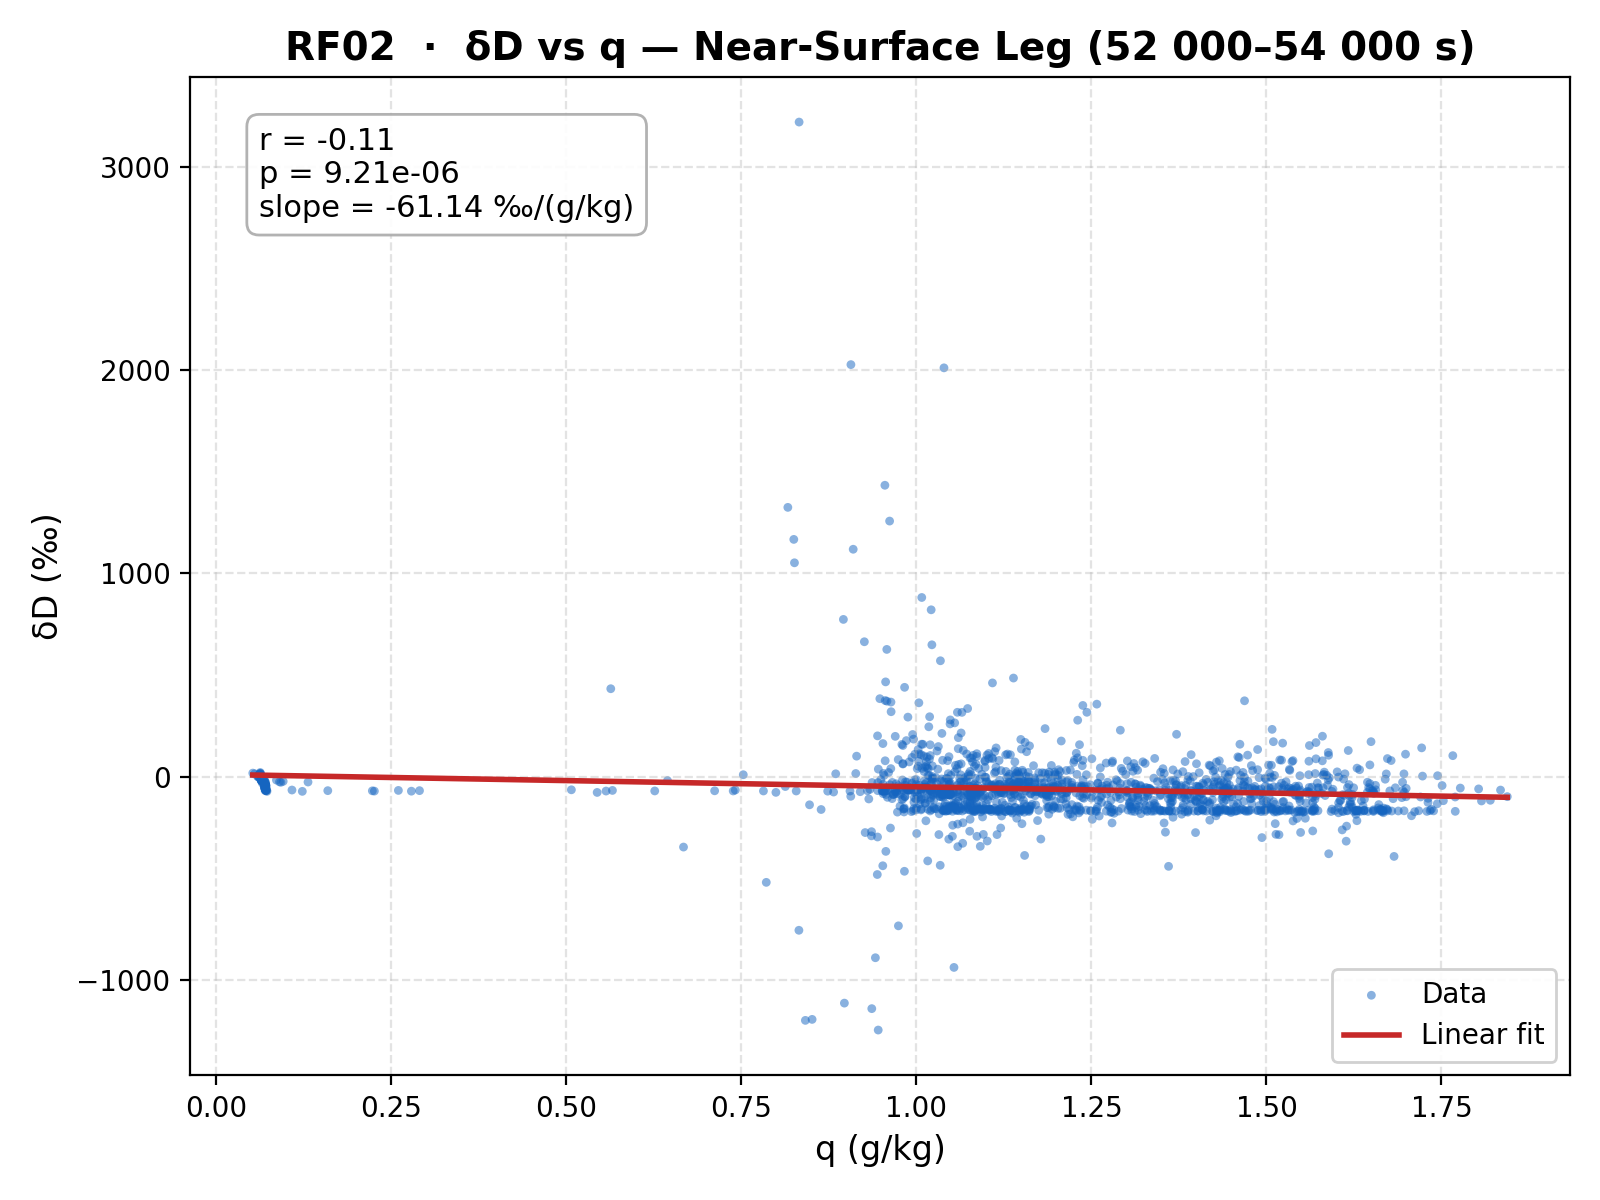
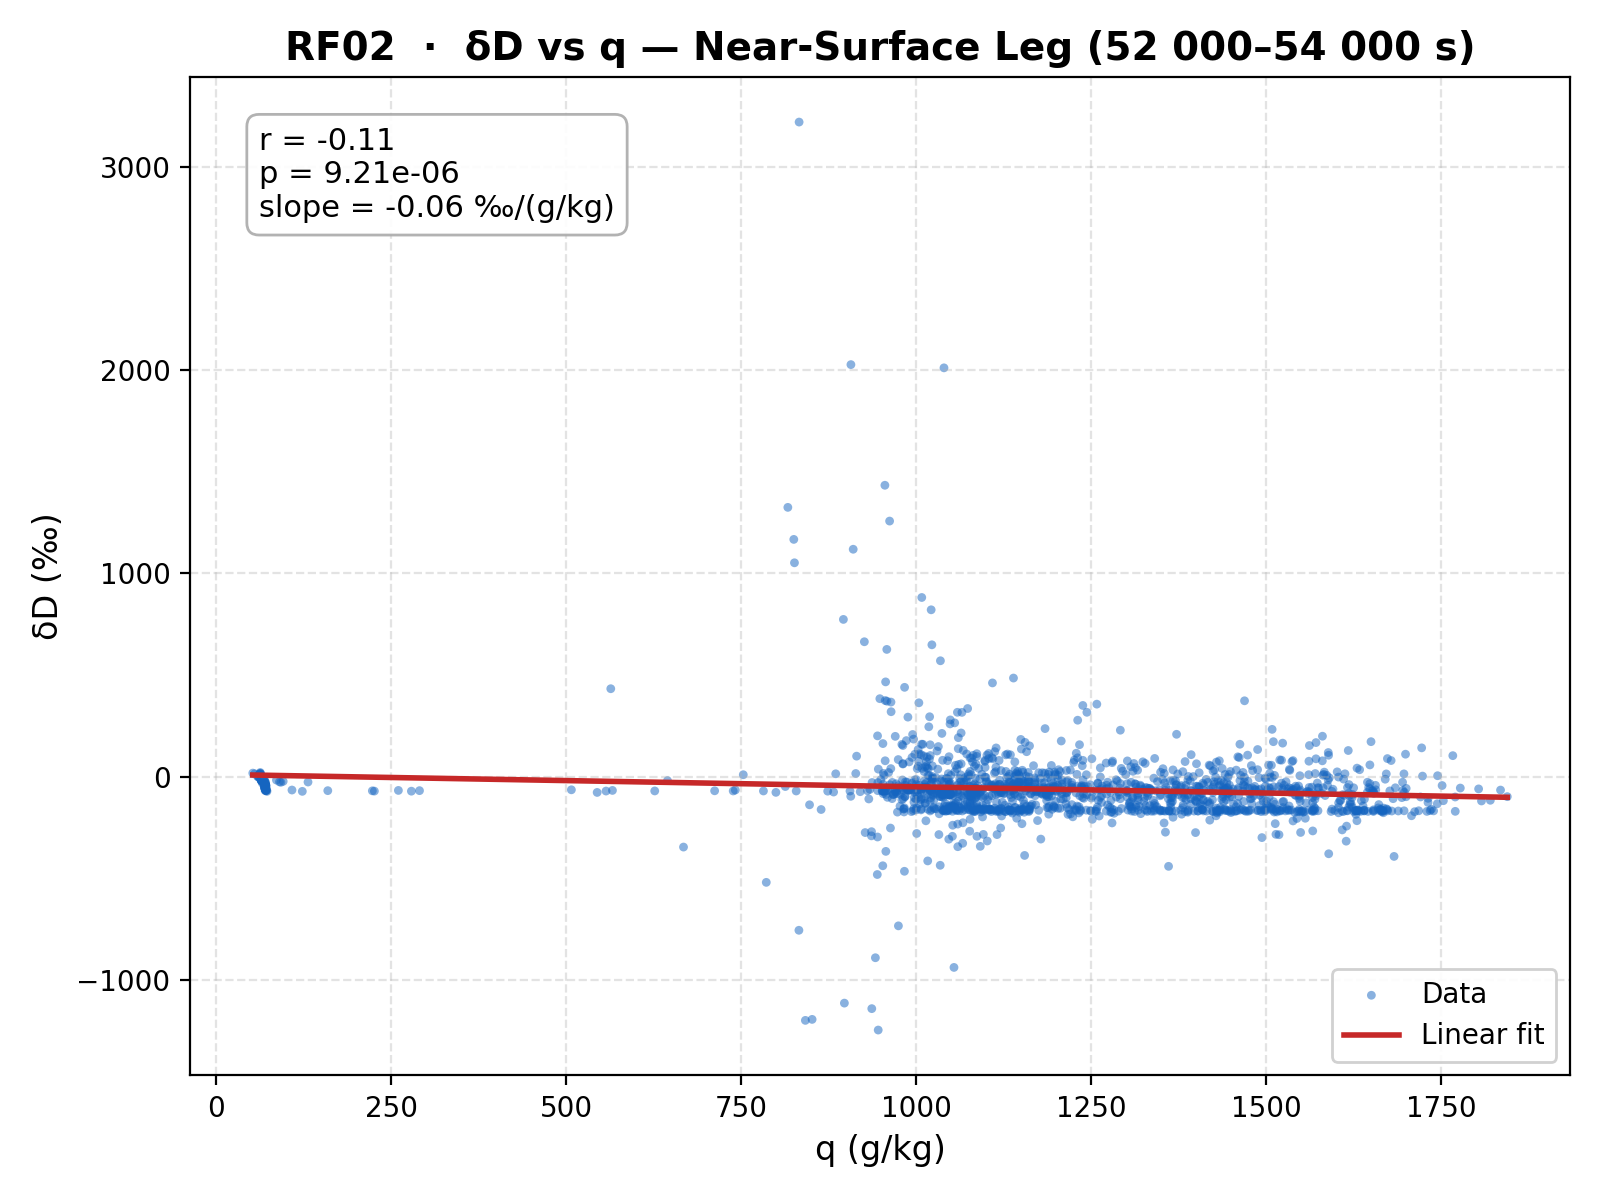
q formula debug (axis changes)

diff --git a/vertical_profiles.py b/vertical_profiles.py
@@ -5,34 +5,20 @@ import matplotlib.pyplot as plt
 nc_file = "RF02S.20240229.092740_182647.PNI.nc"
 ds = netCDF4.Dataset(nc_file)
 
-time_sec = ds.variables["Time"][:]
-palt = ds.variables["PALT"][:]
-theta = ds.variables["THETA"][:]
-vmr = ds.variables["VMR_VXL"][:]
-dD_raw = ds.variables["dD_WVISO1"][:]
+def to_array(var):
+    arr = var[:]
+    return arr.filled(np.nan) if hasattr(arr, "filled") else np.array(arr, dtype=float)
 
-for arr_name in ["palt", "theta", "vmr", "dD_raw"]:
-    arr = locals()[arr_name]
-    if hasattr(arr, "filled"):
-        locals()[arr_name] = arr.filled(np.nan)
-
-palt = locals()["palt"]
-theta = locals()["theta"]
-vmr = locals()["vmr"]
-dD_raw = locals()["dD_raw"]
-
-if dD_raw.ndim == 2:
-    dD = dD_raw[:, 0]
-else:
-    dD = dD_raw
-
-if hasattr(time_sec, "filled"):
-    time_sec = time_sec.filled(np.nan)
+time_sec = to_array(ds.variables["Time"])
+palt = to_array(ds.variables["PALT"])
+theta = to_array(ds.variables["THETA"])
+vmr = to_array(ds.variables["VMR_VXL"])
+dD_raw = to_array(ds.variables["dD_WVISO1"])
 
 ds.close()
 
-# Compute q (g/kg) from VMR_VXL (ppmv)
-q = vmr * (18.0 / 29.0) / 1000.0
+dD = dD_raw[:, 0] if dD_raw.ndim == 2 else dD_raw
+q = vmr * (18.0 / 29.0)
 spiral_mask = (time_sec >= 40414) & (time_sec <= 49099)
 
 alt = palt[spiral_mask]

diff --git a/time_series_leg.py b/time_series_leg.py
@@ -7,31 +7,19 @@ from datetime import datetime, timedelta
 nc_file = "RF02S.20240229.092740_182647.PNI.nc"
 ds = netCDF4.Dataset(nc_file)
 
-time_sec = ds.variables["Time"][:]
-theta = ds.variables["THETA"][:]
-vmr = ds.variables["VMR_VXL"][:]
-dD_raw = ds.variables["dD_WVISO1"][:]
+def to_array(var):
+    arr = var[:]
+    return arr.filled(np.nan) if hasattr(arr, "filled") else np.array(arr, dtype=float)
 
-for arr_name in ["theta", "vmr", "dD_raw"]:
-    arr = locals()[arr_name]
-    if hasattr(arr, "filled"):
-        locals()[arr_name] = arr.filled(np.nan)
-
-theta = locals()["theta"]
-vmr = locals()["vmr"]
-dD_raw = locals()["dD_raw"]
-
-if dD_raw.ndim == 2:
-    dD = dD_raw[:, 0]
-else:
-    dD = dD_raw
-
-if hasattr(time_sec, "filled"):
-    time_sec = time_sec.filled(np.nan)
+time_sec = to_array(ds.variables["Time"])
+theta = to_array(ds.variables["THETA"])
+vmr = to_array(ds.variables["VMR_VXL"])
+dD_raw = to_array(ds.variables["dD_WVISO1"])
 
 ds.close()
 
-q = vmr * (18.0 / 29.0) / 1000.0
+dD = dD_raw[:, 0] if dD_raw.ndim == 2 else dD_raw
+q = vmr * (18.0 / 29.0)
 base_date = datetime(2024, 2, 29)
 timestamps = np.array([base_date + timedelta(seconds=float(s)) for s in time_sec])
 

diff --git a/scatter_dD_vs_q.py b/scatter_dD_vs_q.py
@@ -6,29 +6,18 @@ from scipy import stats
 nc_file = "RF02S.20240229.092740_182647.PNI.nc"
 ds = netCDF4.Dataset(nc_file)
 
-time_sec = ds.variables["Time"][:]
-vmr = ds.variables["VMR_VXL"][:]
-dD_raw = ds.variables["dD_WVISO1"][:]
+def to_array(var):
+    arr = var[:]
+    return arr.filled(np.nan) if hasattr(arr, "filled") else np.array(arr, dtype=float)
 
-for arr_name in ["vmr", "dD_raw"]:
-    arr = locals()[arr_name]
-    if hasattr(arr, "filled"):
-        locals()[arr_name] = arr.filled(np.nan)
-
-vmr = locals()["vmr"]
-dD_raw = locals()["dD_raw"]
-
-if dD_raw.ndim == 2:
-    dD = dD_raw[:, 0]
-else:
-    dD = dD_raw
-
-if hasattr(time_sec, "filled"):
-    time_sec = time_sec.filled(np.nan)
+time_sec = to_array(ds.variables["Time"])
+vmr = to_array(ds.variables["VMR_VXL"])
+dD_raw = to_array(ds.variables["dD_WVISO1"])
 
 ds.close()
 
-q = vmr * (18.0 / 29.0) / 1000.0
+dD = dD_raw[:, 0] if dD_raw.ndim == 2 else dD_raw
+q = vmr * (18.0 / 29.0)
 
 # Horizontal leg mask
 leg_mask = (time_sec >= 52000) & (time_sec <= 54000)

diff --git a/quick_test.py b/quick_test.py
@@ -25,7 +25,7 @@ def load_first_n_lines(nc_path, start=4471, n=5):
             data[v] = val
     
     if "VMR_VXL" in data:
-        data["q"] = data["VMR_VXL"] * (18.0 / 29.0) / 1000.0
+        data["q"] = data["VMR_VXL"] * (18.0 / 29.0)
         
     if "Time" in data:
         base_date = datetime(2024, 2, 29) # Fallback date
